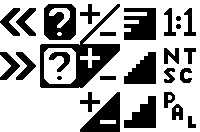
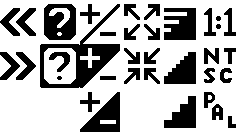
Issue #24 - add full-screen toggle to mini toolbar

diff --git a/libs/minitools.py b/libs/minitools.py
@@ -47,6 +47,18 @@ class DoScale(MiniToolAction):
         self.gadget.state = 0
         config.resize_display()
 
+class DoFullscreen(MiniToolAction):
+    """
+    Toggle full-screen mode
+    """
+    def selected(self, attrs):
+        config.fullscreen = True
+        config.resize_display(force=True)
+
+    def deselected(self, attrs):
+        config.fullscreen = False
+        config.resize_display(force=True)
+
 class DoScanlines(MiniToolAction):
     """
     Toggle scanline mode
@@ -93,7 +105,7 @@ def init_minitoolbar(config_in):
     scaleY = config.fonty // 12
     scaledown = 4 // min(scaleX,scaleY)
     minitools_image = imgload('minitools.png', scaleX=scaleX, scaleY=scaleY, scaledown=scaledown)
-    numtools=5
+    numtools=6
     numsubtools=3
     h = minitools_image.get_height()//numsubtools
     w = minitools_image.get_width()
@@ -104,12 +116,14 @@ def init_minitoolbar(config_in):
         ["expand",    ToolGadget.TT_TOGGLE, "", DoExpand],
         ["help",      ToolGadget.TT_TOGGLE, "", DoHelp],
         ["scale",     ToolGadget.TT_SINGLE, "", DoScale],
+        ["fullscreen",ToolGadget.TT_TOGGLE, "", DoFullscreen],
         ["scanlines", ToolGadget.TT_TOGGLE, "", DoScanlines],
         ["aspect",    ToolGadget.TT_TOGGLE, "", DoAspect]
     ])
 
     minitoolbar.tool_id("help").state = 1 if config.help_on else 0
     minitoolbar.tool_id("scale").has_subtool = True
+    minitoolbar.tool_id("fullscreen").state = 1 if config.fullscreen else 0
     minitoolbar.tool_id("scanlines").state = config.scanlines
     minitoolbar.tool_id("aspect").state = pmode[config.pixel_mode]
 

diff --git a/libs/config.py b/libs/config.py
@@ -942,7 +942,7 @@ class pydpainter:
             if config.minitoolbar.tool_id("expand").state == 1:
                 mtbx = self.screen_width-self.minitoolbar.rect[2]
             else:
-                mtbx = self.screen_width-(self.minitoolbar.rect[2]//5*2)
+                mtbx = self.screen_width-(self.minitoolbar.rect[2]//len(self.minitoolbar.tools)*2)
             self.minitoolbar.draw(screen_rgb, offset=(mtbx, 0))
 
         #scale image double height
@@ -1322,6 +1322,7 @@ class pydpainter:
                         config.menubar.visible = True
                 elif e.key == K_F11:
                     config.fullscreen = not config.fullscreen
+                    config.minitoolbar.tool_id("fullscreen").state = 1 if config.fullscreen else 0
                     config.resize_display(force=True)
                 elif e.key == K_DELETE:
                     config.cursor.visible = not config.cursor.visible

diff --git a/libs/tiptext.py b/libs/tiptext.py
@@ -151,5 +151,6 @@ tiptext["spray2"]    = ["Large spray brush"]
 tiptext["expand"]    = ["Expand or contract mini toolbar"]
 tiptext["help"]      = ["Toogle help bubbles on or off"]
 tiptext["scale"]     = ["Scale window to be larger or smaller"]
+tiptext["fullscreen"]= ["Toggle full-screen mode [F11]"]
 tiptext["scanlines"] = ["Toggle retro CRT scanline simulation"]
 tiptext["aspect"]    = ["Select whether pixels are square or rectangular"]
